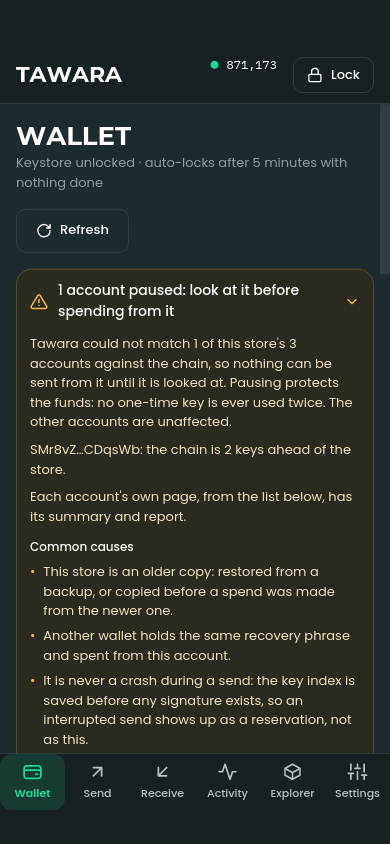
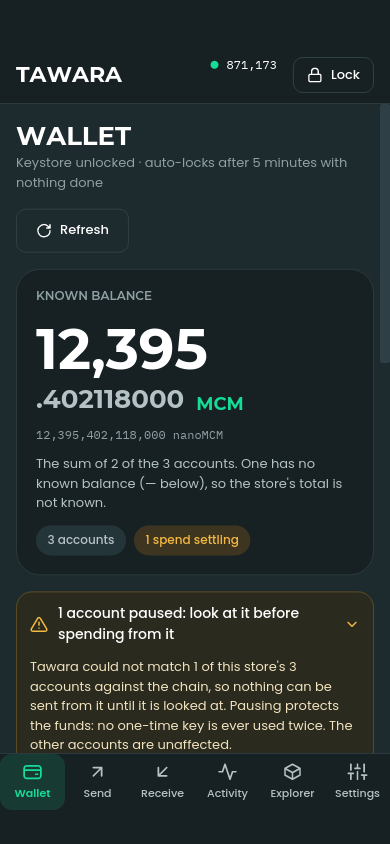
Screenshots: phone W1 as D39, with an account's card open
The six phone W1 images change for D39 (docs/DECISIONS.md D39): the
balance, the notice, the accounts and Recent, each account one line, and
Recent cut to three rows with a "View activity" link.
phone-w1-wallet-account-open is new: W1 with the first account's row
opened into its card, the page scrolled so that the accounts and the card
are in the frame. The desktop has no such image, since its accounts are a
table that opens nothing.

Drawn in the ubuntu:24.04 linux/amd64 container with rustc 1.98.0, as
docs/DECISIONS.md D32 item 10 (c) requires. The container first checked the
desktop images with CI's own command, and all 58 were the same. It then
wrote the phone images with --only phone-, and CI's check run after the
write found all 128 the same. No desktop image changes.

Changed region(s): [[0.0615, 0.3389, 0.8923, 0.8934], [0.8923, 0.3389, 0.9231, 0.3697]]

diff --git a/crates/app/examples/screenshots.rs b/crates/app/examples/screenshots.rs
@@ -20,9 +20,11 @@
 //! it, and two frames of the recovery phrase on a short phone, 640 tall
 //! (`phone-s4-phrase-warning.png` and `phone-s4-phrase-shown.png`). The
 //! phone's welcome screen, S0, has no desktop image: it is drawn only as
-//! `phone-s0-welcome.png` (docs/DECISIONS.md D37), so the phone's images are
-//! 69 in all. Every piece of text names a bundled face (`tawara_app::fonts`),
-//! so the pixels do not depend on the fonts a machine has installed.
+//! `phone-s0-welcome.png` (docs/DECISIONS.md D37), and W1 with an account's
+//! row opened has none either: it is drawn only as
+//! `phone-w1-wallet-account-open.png` (D39), so the phone's images are 70 in
+//! all. Every piece of text names a bundled face (`tawara_app::fonts`), so the
+//! pixels do not depend on the fonts a machine has installed.
 //!
 //! Flags:
 //!
@@ -65,7 +67,7 @@ use std::process::ExitCode;
 use std::time::Duration;
 
 use iced::advanced::renderer::{self, Headless};
-use iced::advanced::widget::operation::scrollable::{self, RelativeOffset};
+use iced::advanced::widget::operation::scrollable::{self, AbsoluteOffset, RelativeOffset};
 use iced::advanced::widget::operation::{Outcome, focusable};
 use iced::advanced::widget::{Id, Operation};
 use iced::advanced::{clipboard, graphics};
@@ -818,6 +820,11 @@ const PHONE_ENDS: [&str; 11] = [
 /// with one.
 const KEYBOARD: f32 = 336.0;
 
+/// How far the phone's wallet page is scrolled down for the image of an open
+/// account's card, in logical pixels: the accounts start under the bar, and
+/// the card under the open row is drawn whole.
+const ACCOUNTS_SCROLL: f32 = 555.0;
+
 /// `model` as a phone draws it: the phone's safe area, with the keyboard up
 /// when `keyboard` is above zero, every store in the phone's own folder, and
 /// Save artifact's share sheet where the desktop wrote a file
@@ -865,14 +872,16 @@ fn phone(mut model: Model, keyboard: f32) -> Model {
 }
 
 /// One image to draw: its name (its file's), the window it is drawn in, the
-/// model it draws, whether it is drawn scrolled to the end of its page, and
-/// the field given the focus, if any.
+/// model it draws, whether it is drawn scrolled to the end of its page, the
+/// field given the focus, if any, and the offset, in logical pixels from the
+/// top, the page is scrolled to, if any.
 struct Image {
     name: String,
     size: (u32, u32),
     model: Model,
     to_end: bool,
     focus: Option<Id>,
+    scroll: Option<f32>,
 }
 
 /// Every desktop image, as the screens are drawn in their windows.
@@ -885,6 +894,7 @@ fn desktop() -> Vec<Image> {
             model,
             to_end: false,
             focus: None,
+            scroll: None,
         })
         .collect()
 }
@@ -899,9 +909,10 @@ fn sample_named(name: &str) -> Model {
 }
 
 /// The phone images at `width` logical pixels across: every desktop sample
-/// but the narrow ones, the phone's welcome screen, which the desktop does not
-/// have, the long pages scrolled to their end, and two drawn with the keyboard
-/// up (docs/DECISIONS.md D32 item 10 (c), D37).
+/// but the narrow ones, the phone's welcome screen and W1 with an account's
+/// row open, which the desktop does not have, the long pages scrolled to their
+/// end, and two drawn with the keyboard up (docs/DECISIONS.md D32 item 10 (c),
+/// D37, D39).
 fn phones(width: u32) -> Vec<Image> {
     let size = (width, PHONE.1);
     let mut out: Vec<Image> = samples()
@@ -913,6 +924,7 @@ fn phones(width: u32) -> Vec<Image> {
             model: phone(model, 0.0),
             to_end: false,
             focus: None,
+            scroll: None,
         })
         .collect();
     // S0 is a phone's screen alone (docs/DECISIONS.md D37), so it has no
@@ -923,6 +935,23 @@ fn phones(width: u32) -> Vec<Image> {
         model: phone(with(Screen::Welcome), 0.0),
         to_end: false,
         focus: None,
+        scroll: None,
+    });
+    // W1 with its first account's row opened into its card (docs/DECISIONS.md
+    // D39, item 4). The desktop lists its accounts in a table, which opens
+    // nothing, so this image is the phone's alone. The page is scrolled so that
+    // the accounts, and the card under the row, are in the frame.
+    let mut open = sample_named("w1-wallet");
+    if let (Screen::Wallet(page), Some(wallet)) = (&mut open.screen, &open.wallet) {
+        page.expanded = Some(wallet.accounts[0].id);
+    }
+    out.push(Image {
+        name: "phone-w1-wallet-account-open".to_owned(),
+        size,
+        model: phone(open, 0.0),
+        to_end: false,
+        focus: None,
+        scroll: Some(ACCOUNTS_SCROLL),
     });
     for name in PHONE_ENDS {
         out.push(Image {
@@ -931,6 +960,7 @@ fn phones(width: u32) -> Vec<Image> {
             model: phone(sample_named(name), 0.0),
             to_end: true,
             focus: None,
+            scroll: None,
         });
     }
     // A short phone draws the recovery phrase in two frames: the library's
@@ -946,6 +976,7 @@ fn phones(width: u32) -> Vec<Image> {
             model: phone(model, 0.0),
             to_end: false,
             focus: None,
+            scroll: None,
         });
     }
     // The field the keyboard came up for: the recovery phrase, and the first
@@ -960,6 +991,7 @@ fn phones(width: u32) -> Vec<Image> {
             model: phone(sample_named(name), KEYBOARD),
             to_end: false,
             focus: Some(field),
+            scroll: None,
         });
     }
     out
@@ -979,6 +1011,7 @@ fn nanomcm_samples(width: u32) -> Vec<Image> {
         model: phone(model, 0.0),
         to_end: false,
         focus: None,
+        scroll: None,
     }]
 }
 
@@ -993,14 +1026,16 @@ fn selected(name: &str, only: &[String], except: &[String]) -> bool {
 /// The pixels of `model`'s window at `size`, as RGBA. `to_end` scrolls the
 /// page to its end first, as a person scrolls it; `focus` gives that field the
 /// focus, and the page is scrolled to it as the application scrolls it when
-/// the keyboard comes up (`screens::reveal_focused`). The frame's instant is
-/// taken before the focus, so the caret is drawn on every run.
+/// the keyboard comes up (`screens::reveal_focused`); `scroll` puts the page at
+/// that offset from its top. The frame's instant is taken before the focus, so
+/// the caret is drawn on every run.
 fn draw(
     renderer: &mut iced::Renderer,
     model: &Model,
     size: (u32, u32),
     to_end: bool,
     focus: Option<Id>,
+    scroll: Option<f32>,
 ) -> Vec<u8> {
     let theme = theme::theme();
     #[allow(clippy::cast_precision_loss)]
@@ -1027,6 +1062,23 @@ fn draw(
                 _ => break,
             }
         }
+        let _ = ui.update(
+            &frame,
+            Cursor::Unavailable,
+            renderer,
+            &mut clipboard::Null,
+            &mut messages,
+        );
+    }
+    if let Some(y) = scroll {
+        let mut to = scrollable::scroll_to(
+            screens::page_id(),
+            AbsoluteOffset {
+                x: None,
+                y: Some(y),
+            },
+        );
+        ui.operate(renderer, &mut to);
         let _ = ui.update(
             &frame,
             Cursor::Unavailable,
@@ -1309,13 +1361,14 @@ fn main() -> ExitCode {
             mut model,
             to_end,
             focus,
+            scroll,
         } = image;
         // The window the screen is drawn in is this wide (D27, item 9).
         #[allow(clippy::cast_precision_loss)]
         {
             model.width = size.0 as f32;
         }
-        let rgba = draw(&mut renderer, &model, size, to_end, focus);
+        let rgba = draw(&mut renderer, &model, size, to_end, focus, scroll);
         let path = dir.join(format!("{name}.png"));
         if options.check {
             match decode(&path) {
